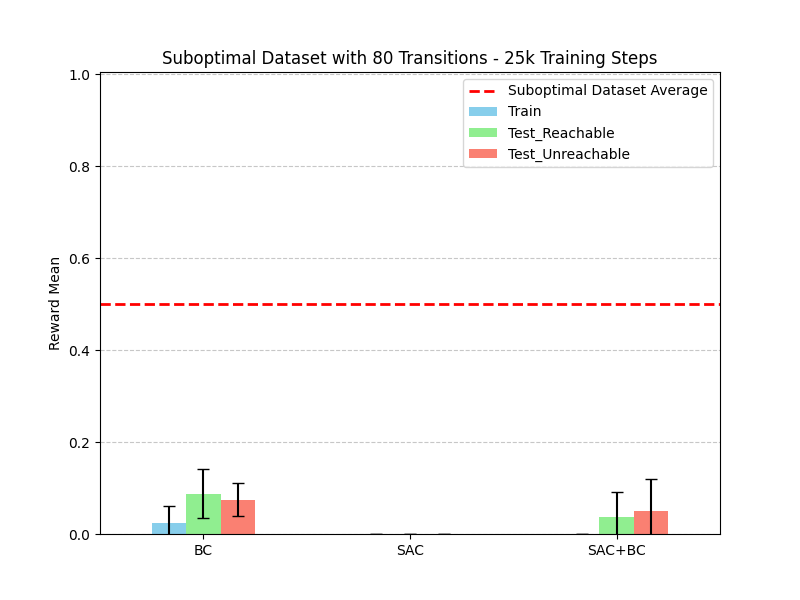
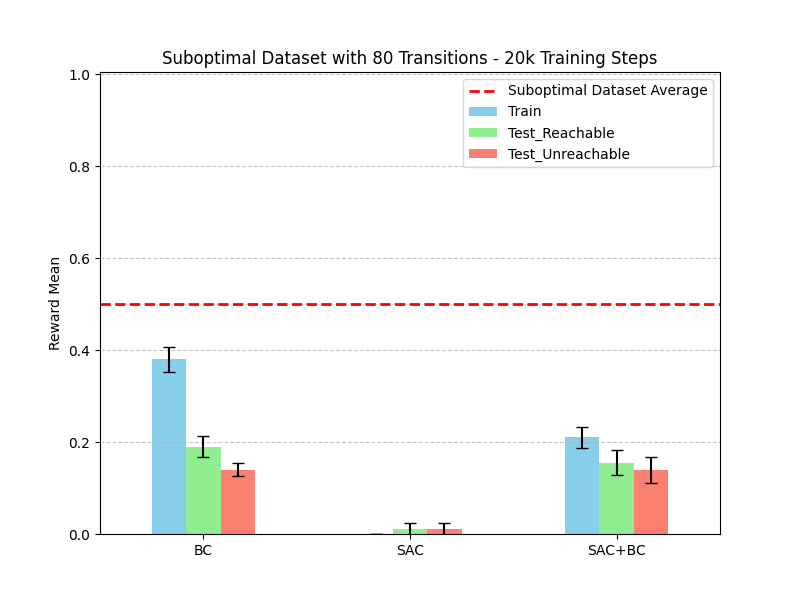
plot learning & generalization graphs

diff --git a/results.py b/results.py
@@ -126,9 +126,9 @@ def plotLearningCurve(dataset_quality: str, algorithm: str):
 ## 80x Suboptimal dataset - BC (Train, Test100, Test0) vs. SAC+BC (Train, Test100, Test0) vs. SAC (Train, Test100, Test0)
 ## 80x Mixed dataset - BC (Train, Test100, Test0) vs. SAC+BC (Train, Test100, Test0) vs. SAC (Train, Test100, Test0)
 
-def plotGeneralizationGraph(dataset_quality: str):
+def plotGeneralizationGraph(dataset_quality: str, training_steps: int):
     # TODO: add 15 links (5 for each algorithms results, since 5 seeds)
-    
+        
     if dataset_quality == 'optimal':
         dataset_average = 1.0
         dataset_size = "40"
@@ -141,27 +141,28 @@ def plotGeneralizationGraph(dataset_quality: str):
         
     df = merge_all_results(
     [
-        f'models/bc/{dataset_quality}_1/results.csv', 
-        f'models/bc/{dataset_quality}_2/results.csv', 
-        f'models/bc/{dataset_quality}_3/results.csv', 
-        f'models/bc/{dataset_quality}_4/results.csv', 
-        f'models/bc/{dataset_quality}_5/results.csv', 
-        
-        f'models\sac_bc\{dataset_quality}_1/results.csv',
-        f'models\sac_bc\{dataset_quality}_2/results.csv',
-        f'models\sac_bc\{dataset_quality}_3/results.csv',
-        f'models\sac_bc\{dataset_quality}_4/results.csv',
-        f'models\sac_bc\{dataset_quality}_5/results.csv',
-        
-        f'models\sac\{dataset_quality}_1/results.csv',
-        f'models\sac\{dataset_quality}_2/results.csv',
-        f'models\sac\{dataset_quality}_3/results.csv',
-        f'models\sac\{dataset_quality}_4/results.csv',
-        f'models\sac\{dataset_quality}_5/results.csv',
+        f'models/bc/{dataset_quality}_{dataset_size}_10/results.csv', 
+        f'models/bc/{dataset_quality}_{dataset_size}_11/results.csv', 
+        f'models/bc/{dataset_quality}_{dataset_size}_12/results.csv', 
+        f'models/bc/{dataset_quality}_{dataset_size}_13/results.csv', 
+        f'models/bc/{dataset_quality}_{dataset_size}_14/results.csv', 
+
+        f'models\sac_bc\{dataset_quality}_{dataset_size}_10/results.csv',
+        f'models\sac_bc\{dataset_quality}_{dataset_size}_11/results.csv',
+        f'models\sac_bc\{dataset_quality}_{dataset_size}_12/results.csv',
+        f'models\sac_bc\{dataset_quality}_{dataset_size}_13/results.csv',
+        f'models\sac_bc\{dataset_quality}_{dataset_size}_14/results.csv',
+
+        f'models\sac\{dataset_quality}_{dataset_size}_10/results.csv',
+        f'models\sac\{dataset_quality}_{dataset_size}_11/results.csv',
+        f'models\sac\{dataset_quality}_{dataset_size}_12/results.csv',
+        f'models\sac\{dataset_quality}_{dataset_size}_13/results.csv',
+        f'models\sac\{dataset_quality}_{dataset_size}_14/results.csv',
+
     ])
     
     # Filter the data for steps
-    df_step = df[df['Steps'] == 200]
+    df_step = df[df['Steps'] == training_steps]
 
     # Compute the average of Reward_mean for each algorithm
     reward_mean_avg_env = df_step.groupby(['Algorithm', 'Environment'])['Reward_mean'].mean()
@@ -175,7 +176,7 @@ def plotGeneralizationGraph(dataset_quality: str):
     fig, ax = plt.subplots(figsize=(8, 6))
     reward_mean_avg_env.plot(kind='bar', yerr=reward_mean_std, capsize=4, ax=ax,
         color=['skyblue', 'lightgreen', 'salmon'])
-    ax.set_title(f'{dataset_quality.capitalize()} Dataset with {dataset_size} Transitions - 25k Training Steps')
+    ax.set_title(f'{dataset_quality.capitalize()} Dataset with {dataset_size} Transitions - {int(training_steps / 1000)}k Training Steps')
     ax.set_ylabel('Reward Mean')
     ax.set_xlabel('')
     ax.set_xticks(range(len(reward_mean_avg_env.index)))
@@ -386,8 +387,8 @@ def main():
     
     
     # results
-    plotLearningCurve(dataset_quality='optimal', algorithm = 'sac_bc')    
-    # plotGeneralizationGraph(dataset_quality = 'suboptimal')
+    # plotLearningCurve(dataset_quality='mixed', algorithm = 'sac')    
+    plotGeneralizationGraph(dataset_quality = 'mixed', training_steps = 50000)
     
 
 if __name__ == "__main__":

diff --git a/discrete_SAC.py b/discrete_SAC.py
@@ -37,22 +37,22 @@ class Config:
     # model params
     hidden_dim: int = 256
     num_critics: int = 2 # defines the N in SAC-N
-    gamma: float = 0.99
+    gamma: float = 0.96
     tau: float = 5e-3
-    actor_learning_rate: float = 3e-4
-    critic_learning_rate: float = 3e-4
-    alpha_learning_rate: float = 3e-4
+    actor_learning_rate: float = 0.00023
+    critic_learning_rate: float = 0.00023
+    alpha_learning_rate: float = 0.00023
     max_action: float = 1.0
     # training params
     buffer_size: int = 1_000_000
     env_name: str = "MiniGrid-FourRooms-v1"
     batch_size: int = 256
-    num_epochs: int = 20
+    num_epochs: int = 5000
     num_updates_on_epoch: int = 10
     normalize_reward: bool = False
     # evaluation params
     eval_episodes: int = 40 # there are 40 tasks in each test_config
-    eval_every: int = 50
+    eval_every: int = 1000
     # general params
     checkpoints_path: Optional[str] = "./models/sac"
     deterministic_torch: bool = False
@@ -565,7 +565,8 @@ def modify_reward(dataset, env_name, max_episode_steps=1000):
 
 
 @pyrallis.wrap()
-def train(config: Config, dataset_tuple: tuple):
+def train(config: Config, dataset_tuple: tuple, train_seed: int):
+    config.train_seed = train_seed
     set_seed(config.train_seed, deterministic_torch=config.deterministic_torch)
     # wandb_init(asdict(config))
     
@@ -847,5 +848,26 @@ if __name__ == "__main__":
     # eval_all_models(model_dir="models\sac\SAC-N-MiniGrid-FourRooms-v1-4e782860")
     # eval(model_paths=model_paths)
     # train(dataset_tuple=("optimal", "./datasets/optimal_40x.pkl"))
-    train(dataset_tuple=("suboptimal", "./datasets/suboptimal_80x.pkl"))
+    # train(dataset_tuple=("suboptimal", "./datasets/suboptimal_80x.pkl"))
+    
+    
+    # eval_all_models(model_dir='models\sac\optimal_40_10')
+    # eval_all_models(model_dir='models\sac\optimal_40_11')
+    # eval_all_models(model_dir='models\sac\optimal_40_12')
+    # eval_all_models(model_dir='models\sac\optimal_40_13')
+    # eval_all_models(model_dir='models\sac\optimal_40_14')
+    
+    eval_all_models(model_dir='models\sac\suboptimal_80_10')
+    eval_all_models(model_dir='models\sac\suboptimal_80_11')
+    eval_all_models(model_dir='models\sac\suboptimal_80_12')
+    eval_all_models(model_dir='models\sac\suboptimal_80_13')
+    eval_all_models(model_dir='models\sac\suboptimal_80_14')
+    
+    eval_all_models(model_dir='models\sac\mixed_80_10')
+    eval_all_models(model_dir='models\sac\mixed_80_11')
+    eval_all_models(model_dir='models\sac\mixed_80_12')
+    eval_all_models(model_dir='models\sac\mixed_80_13')
+    eval_all_models(model_dir='models\sac\mixed_80_14')
+
+
 

diff --git a/hyperparameter_tuning_sac.py b/hyperparameter_tuning_sac.py
@@ -8,8 +8,8 @@ from d3rlpy.dataset import MDPDataset
 import discrete_SAC
 
 # Specify dataset
-dataset_quality = "optimal"
-dataset_size = "40"
+dataset_quality = "mixed"
+dataset_size = "80"
 dataset_path = f"./datasets/{dataset_quality}_{dataset_size}x.pkl"
 
 
@@ -22,7 +22,7 @@ def objective(trial):
     # 500 to 5000 with 500 steps used
     n_steps = trial.suggest_int(name='n_steps', low=15000, high=30000, step=1000)
     learning_rate = trial.suggest_loguniform(name='learning_rate', low=1e-4, high=3e-4)
-    gamma = trial.suggest_float(name='beta', low=0.95, high=0.99, step=0.01)
+    gamma = trial.suggest_float(name='gamma', low=0.95, high=0.99, step=0.01)
 
     # Update Config
     config.num_epochs = int(n_steps / config.num_updates_on_epoch)
@@ -78,7 +78,7 @@ def optimize_sac():
     fig = plot_rank(study)
     fig.update_layout(title=f"Rank: SAC Tuning on {dataset_size}x {dataset_quality.capitalize()} Dataset",)
     fig.write_image(f"results/tuning/{study_name}_{dataset_quality}_rank.png")
-    fig = plot_contour(study, params=[ "learning_rate", "n_steps", "beta"])
+    fig = plot_contour(study, params=[ "learning_rate", "n_steps", "gamma"])
     fig.update_layout(title=f"Contour: SAC Tuning on {dataset_size}x {dataset_quality.capitalize()} Dataset",)
     fig.write_image(f"results/tuning/{study_name}_{dataset_quality}_contour.png") 
 

diff --git a/discrete_SAC_BC.py b/discrete_SAC_BC.py
@@ -867,7 +867,7 @@ if __name__ == "__main__":
     # train(("optimal", "./datasets/optimal_40x.pkl"))
     # train(("suboptimal", "./datasets/suboptimal_80x.pkl"))
     
-    train(("suboptimal", "./datasets/suboptimal_80x.pkl"), 10)
+    # train(("suboptimal", "./datasets/suboptimal_80x.pkl"), 10)
     # train(("mixed", "./datasets/mixed_80x.pkl"), 11)
     # train(("mixed", "./datasets/mixed_80x.pkl"), 12)
     # train(("mixed", "./datasets/mixed_80x.pkl"), 13)
@@ -875,11 +875,13 @@ if __name__ == "__main__":
 
 
     
-    # eval_all_models(model_dir='models\sac_bc\optimal_40_10')
-    # eval_all_models(model_dir='models\sac_bc\optimal_40_11')
-    # eval_all_models(model_dir='models\sac_bc\optimal_40_12')
-    # eval_all_models(model_dir='models\sac_bc\optimal_40_13')
-    # eval_all_models(model_dir='models\sac_bc\optimal_40_14')
+    eval_all_models(model_dir='models\sac_bc\mixed_80_10')
+    eval_all_models(model_dir='models\sac_bc\mixed_80_11')
+    eval_all_models(model_dir='models\sac_bc\mixed_80_12')
+    eval_all_models(model_dir='models\sac_bc\mixed_80_13')
+    eval_all_models(model_dir='models\sac_bc\mixed_80_14')
+
+
 
 
 
